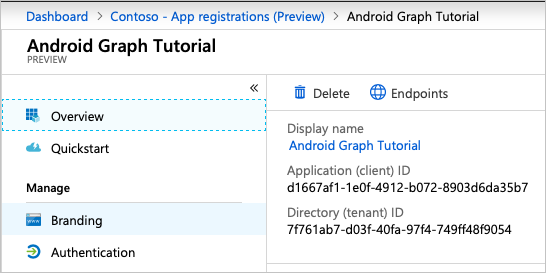
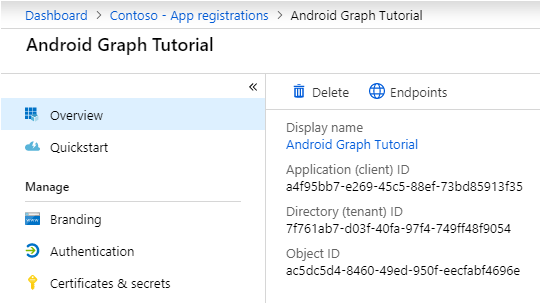
Removed preview from app registration instructions

Changed region(s): [[0.0, 0.0, 1.0, 1.0], [0.4732, 0.9377, 1.0, 0.967]]

diff --git a/demos/03-add-msgraph/README.md b/demos/03-add-msgraph/README.md
@@ -16,7 +16,7 @@ If you don't have a Microsoft account, there are a couple of options to get a fr
 
 1. Open a browser and navigate to the [Azure Active Directory admin center](https://aad.portal.azure.com) and login using a **personal account** (aka: Microsoft Account) or **Work or School Account**.
 
-1. Select **Azure Active Directory** in the left-hand navigation, then select **App registrations (Preview)** under **Manage**.
+1. Select **Azure Active Directory** in the left-hand navigation, then select **App registrations** under **Manage**.
 
     ![A screenshot of the App registrations ](../../tutorial/images/aad-portal-app-registrations.png)
 

diff --git a/tutorial/register-app.md b/tutorial/register-app.md
@@ -4,7 +4,7 @@ In this exercise you will create a new Azure AD native application using the Azu
 
 1. Open a browser and navigate to the [Azure Active Directory admin center](https://aad.portal.azure.com) and login using a **personal account** (aka: Microsoft Account) or **Work or School Account**.
 
-1. Select **Azure Active Directory** in the left-hand navigation, then select **App registrations (Preview)** under **Manage**.
+1. Select **Azure Active Directory** in the left-hand navigation, then select **App registrations** under **Manage**.
 
     ![A screenshot of the App registrations ](./images/aad-portal-app-registrations.png)
 
